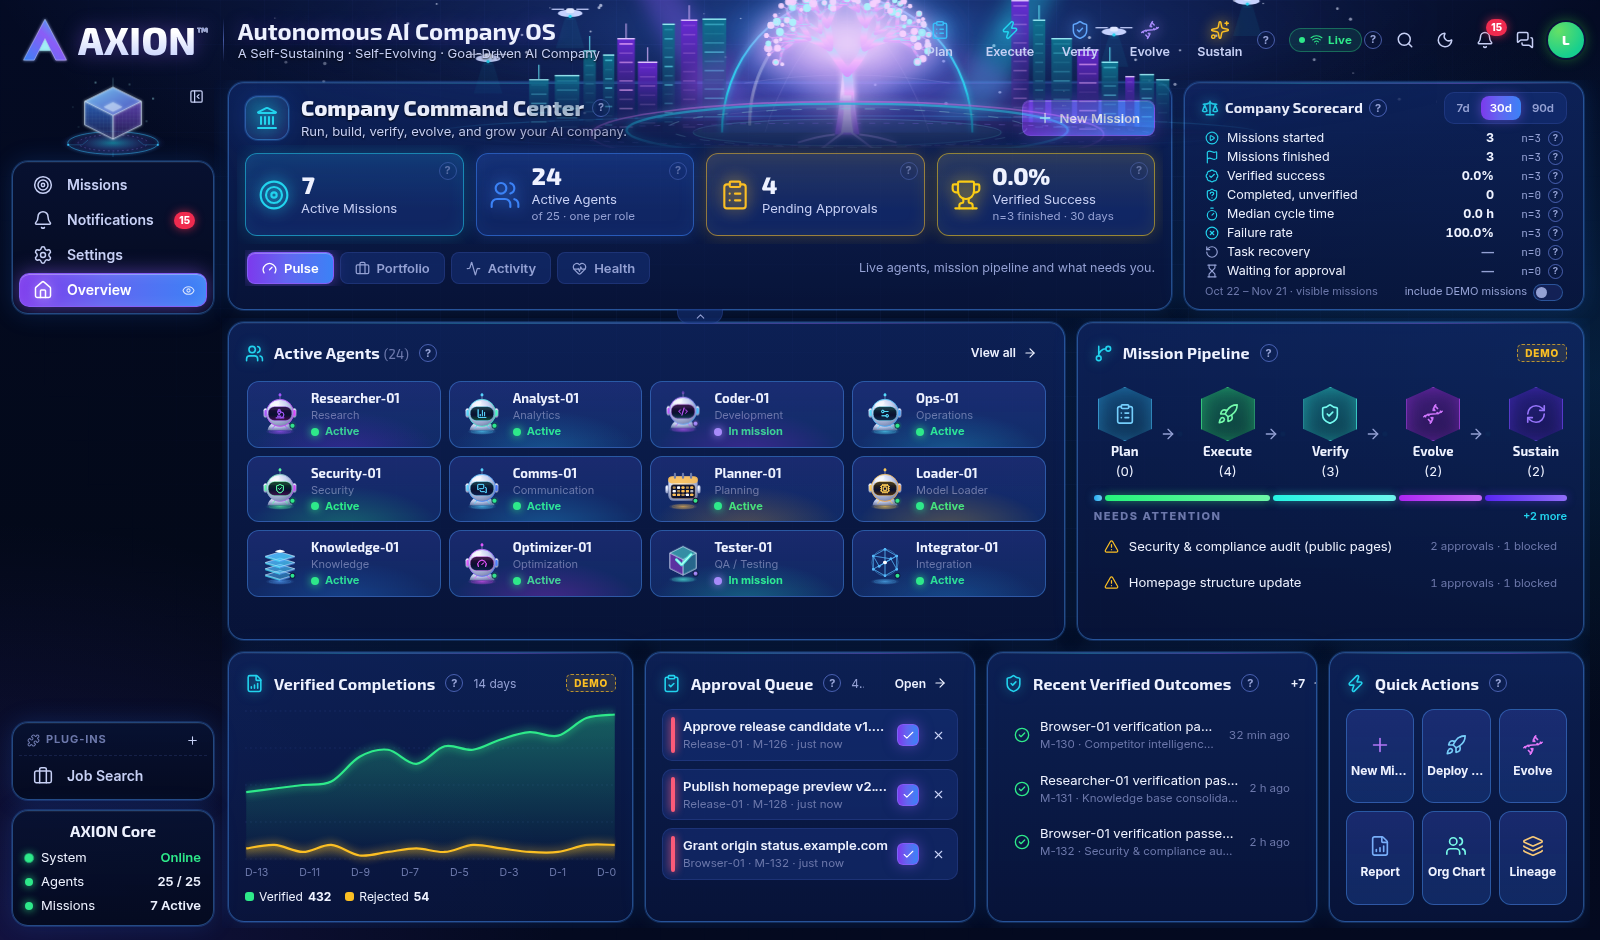
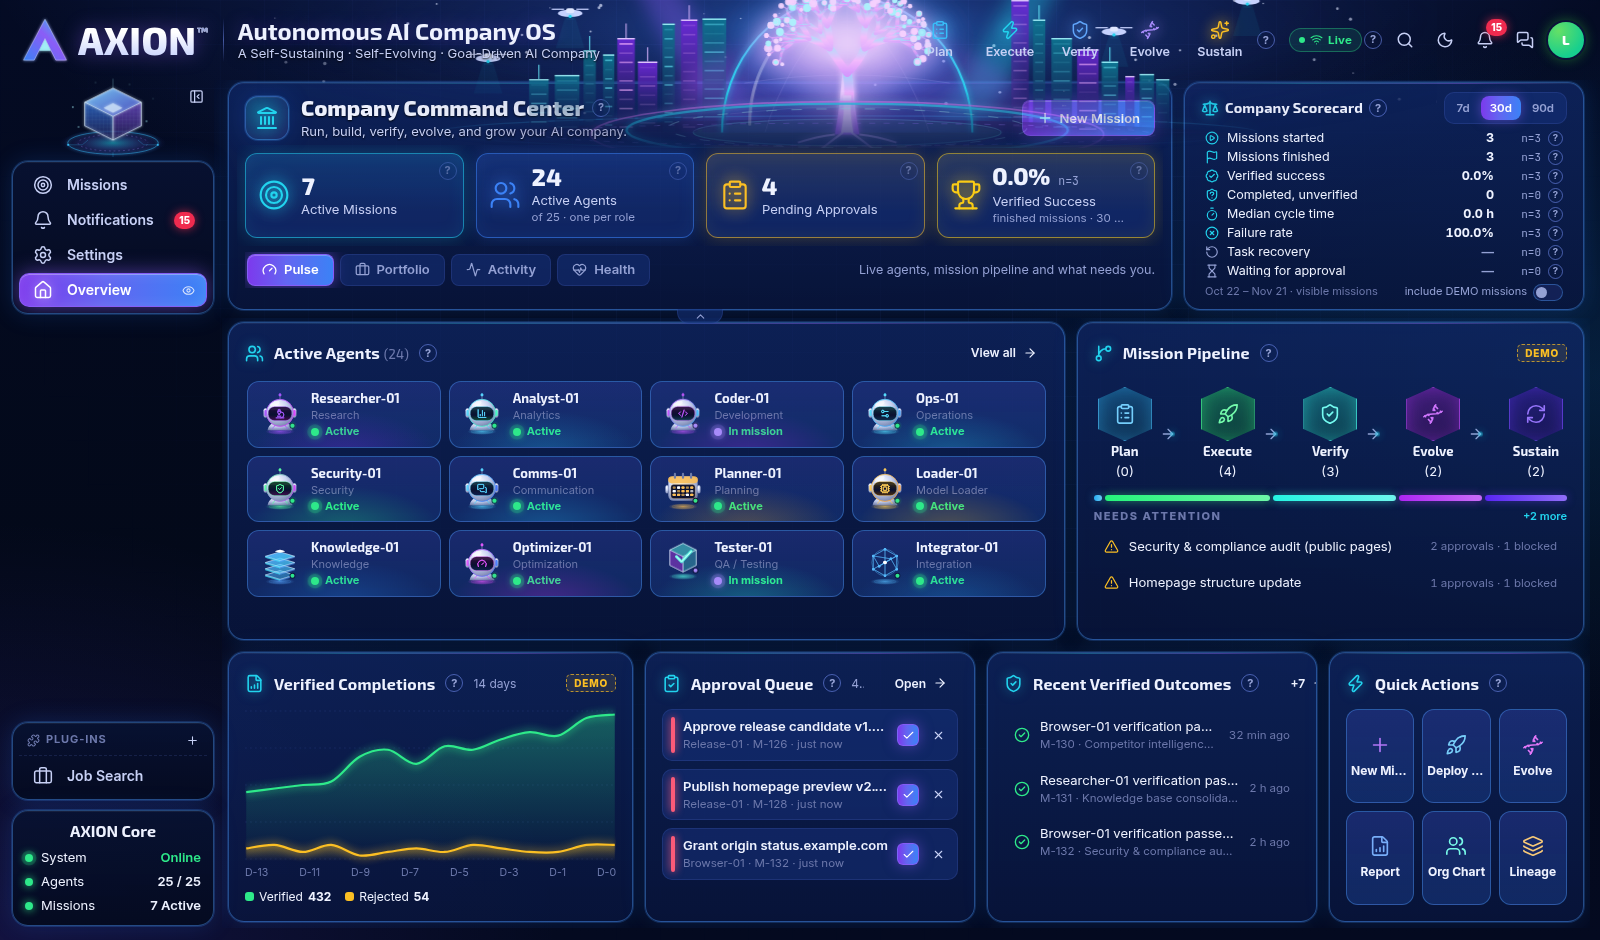
fix(c02): tile keeps its n visible on short screens (badge), 1366x650 browser check, other-tenant wait in the route test, settle before the c01 expiry step; report

diff --git a/web/src/components/layout/CommandCenter.tsx b/web/src/components/layout/CommandCenter.tsx
@@ -33,9 +33,10 @@ export function useCompanyKpis(): KpiItem[] {
     const r = rowOf(score.data, 'verified_success_rate');
     const success: KpiItem = r && r.state === 'ok' && r.value !== null
       ? { key: 'success', icon: Trophy, value: r.value, decimals: 1, suffix: '%', label: 'Verified Success', color: '#facc15', help: 'kpi.success.api', onClick: () => nav('/missions'),
-          hint: <Tip label={r.evidence}><span data-kpi-n={r.n}>n={r.n} finished · 30 days</span></Tip> }
+          badge: <Tip label={r.evidence}><span data-kpi-n={r.n}>n={r.n}</span></Tip>, hint: 'finished missions · 30 days' }
       : { key: 'success', icon: Trophy, value: 0, text: r ? 'not enough evidence' : score.error ? 'unavailable' : 'loading…', label: 'Verified Success', color: '#facc15', help: 'kpi.success.api', onClick: () => nav('/missions'),
-          hint: <Tip label={r?.evidence ?? score.error ?? 'Reading the scorecard'}><span data-kpi-n={r?.n ?? ''}>{r ? `n=${r.n} finished · 30 days` : '30 days'}</span></Tip> };
+          ...(r ? { badge: <Tip label={r.evidence}><span data-kpi-n={r.n}>n={r.n}</span></Tip> } : {}),
+          hint: <Tip label={r?.evidence ?? score.error ?? 'Reading the scorecard'}><span>{r ? 'finished missions · 30 days' : '30 days'}</span></Tip> };
     return [
       { key: 'missions', icon: Target, value: active, label: 'Active Missions', color: '#22d3ee', help: 'kpi.activeMissions', onClick: () => nav('/missions?filter=active') },
       { key: 'agents', icon: Users, value: activeAgents, label: 'Active Agents', hint: `of ${AGENTS.length} · one per role`, color: '#3b82f6', help: 'kpi.activeAgents', onClick: () => nav('/agents') },

diff --git a/web/src/components/layout/PageFrame.tsx b/web/src/components/layout/PageFrame.tsx
@@ -28,6 +28,8 @@ export interface KpiItem {
   bar?: number;
   /** any extra node (rare) */
   foot?: ReactNode;
+  /** small always-visible note beside the value (e.g. the sample size "n=3"); unlike `hint` it stays on short screens */
+  badge?: ReactNode;
   /** shown instead of the counted-up number (e.g. "not enough evidence"); `value` is then not displayed */
   text?: string;
   help?: string;
@@ -54,6 +56,7 @@ export function KpiTile({ k, i = 0 }: { k: KpiItem; i?: number }) {
           {k.text != null
             ? <span className="kpi-val kt-text">{k.text}</span>
             : <span className="kpi-val"><CountUp value={k.value} decimals={k.decimals} prefix={k.prefix} suffix={k.suffix} /></span>}
+          {k.badge != null && <span className="kt-badge">{k.badge}</span>}
           {k.delta && <span className="kpi-delta">{k.down ? <ArrowDown size={13} strokeWidth={3} /> : <ArrowUp size={13} strokeWidth={3} />}{k.delta}</span>}
         </div>
         <div className="kpi-label">{k.label}</div>

diff --git a/web/src/theme/frame.css b/web/src/theme/frame.css
@@ -62,6 +62,7 @@
 .kt-body { min-width: 0; flex: 1; text-align: left; padding-right: 12px; }
 .kt-top { display: flex; align-items: baseline; gap: 8px; min-width: 0; }
 .kt .kpi-val { font-size: 24px; white-space: nowrap; }
+.kt-badge { font-family: var(--font-mono); font-size: 11.5px; color: var(--text-muted); white-space: nowrap; }
 .kt .kpi-val.kt-text { font-size: 15px; font-weight: 700; color: var(--text-muted); white-space: normal; line-height: 1.15; }
 .kt .kpi-label { margin-top: 3px; }
 .kt-hint { font-size: 11.5px; color: var(--text-muted); white-space: nowrap; overflow: hidden; text-overflow: ellipsis; margin-top: 1px; }

diff --git a/server/test/company.test.ts b/server/test/company.test.ts
@@ -87,6 +87,7 @@ describe('scoping', () => {
     await q(`insert into tenants(id,name) values ('t-2','Other')`);
     await q(`insert into users(id,tenant_id,name,name_key,pass_hash,role,status) values ('u-x','t-2','X','x','h','admin','approved')`);
     await finished('M-207', 'u-x', 'completed', { shared: true, tenant: 't-2' });
+    await step('M-207', 'completed', 'waiting_approval', 0.9, 't-2'); await step('M-207', 'waiting_approval', 'running', 0.5, 't-2');
     // a deleted mission never counts
     await finished('M-208', minaId, 'canceled');
     await q(`update missions set deleted_at=now() where id='M-208'`);

diff --git a/web/docs/improve/cycles/c02-report.md b/web/docs/improve/cycles/c02-report.md
@@ -50,9 +50,11 @@ Implementer report for `c02-brief.md`. Branch `improve-30h`, base `b2c02ed`.
   and `mission.deleted`, and on every stream reconnect. The debounce is cancelled on sign-out and the cache is cleared.
 - **Overview, api mode** (`CommandCenter.tsx`, `Overview.tsx`):
   - **Verified Success tile.**
-    - With evidence, it shows the server's `verified_success_rate`, with `n=… finished · 30 days` under it and the
-      evidence sentence in a tooltip.
-    - Without evidence, it shows "not enough evidence" (no %) with `n=0 · 30 days`.
+    - With evidence, it shows the server's `verified_success_rate` with an `n=…` badge beside the value (evidence sentence
+      in its tooltip) and "finished missions · 30 days" under it.
+    - Without evidence, it shows "not enough evidence" (no %) with the `n=0` badge.
+    - The badge sits beside the value, not in the hint line, because short screens hide the hint (`frame.css`, max-height
+      860px). The n stays visible at 1366×650; the browser check asserts this.
     - No delta; help key `kpi.success.api`.
   - **Tokens Today tile:** removed.
   - **Active Missions tile:** the fake `+2` delta is removed.
@@ -65,8 +67,9 @@ Implementer report for `c02-brief.md`. Branch `improve-30h`, base `b2c02ed`.
       header shows a DEMO tag.
     - The footer shows the date range.
   - The demo-only Period select is hidden in api mode; it only ever showed a "(demo)" toast.
-- **`KpiTile`** (`PageFrame.tsx`): a new optional `text` replaces the counted-up number. It is not set in demo mode, so the
-  demo path renders exactly as before.
+- **`KpiTile`** (`PageFrame.tsx`): two new optional fields, `text` (replaces the counted-up number) and `badge` (a small note
+  beside the value that stays visible on short screens). Neither is set in demo mode, so the demo path renders exactly as
+  before.
 - **Missions list header, api mode:** `N open · 0.0% verified success (n=3)` (server value, 30d, DEMO excluded), with the
   evidence in a tooltip. With no evidence it shows only `N open`.
 - **Demo mode is unchanged:** the 96.4% / +2.1% / 1.84M / +2 tiles, the Company Health ring and the Missions header
@@ -152,7 +155,7 @@ Tests added:
   - an admin sees all missions of the tenant (DEMO, deleted and other-tenant missions are excluded);
   - a member never counts a private mission they can't see, including its task-recovery and approval-wait rows;
   - DEMO is counted only with `includeDemo=1`;
-  - another tenant's missions never count;
+  - another tenant's missions never count, including its shared mission's approval wait;
   - every task passed + a `verifies` delegation verifies a completion; the owner's own approval does not.
 
 ## Pass threshold
@@ -172,9 +175,14 @@ Other verification:
   - The one failure was in api-stage6 ("I2: a real mission's Reports tab says reports arrive…", an 8 s wait right after the
     simulated server restart in that script).
   - Rerunning api-stage6 alone gave 94/94. The check does not involve the scorecard (see Concerns).
-  - `api-improve.mjs` passed 49/49 on 4 of 5 runs. The one failure was in the cycle 1 part: the Approve click on the
-    expired-proposal card timed out before any c02 step. It passed on the next run, which also wrote the committed
-    screenshot.
+  - Two earlier `api-improve.mjs` runs failed on things that are fixed now. One was my own header overlap: the DEMO
+    switch sat under the window switch, which is why the switch went back to the footer. The other was a cycle 1 race,
+    seen twice.
+  - The race: after P3 is created, A's or C's re-read on `org.proposalCreated` could land after the script moved P3's
+    expiry into the past. The server then expired P3 on that read, the card left B's Pending filter, and the Approve
+    click timed out.
+  - The fix waits 1.5 s for those re-reads to finish before the expiry. No assertion changed. The final two runs passed
+    50/50 each (the c02 section now also checks 1366×650).
 - `node scripts/ov-fit.mjs` (demo mode, 5190): **NO SCROLL ANYWHERE** (8 sizes × 4 tabs).
 - `./scripts/api-e2e.sh "DATA_MODE=api node scripts/ov-fit.mjs …"` (api mode, where the new panel is): **NO SCROLL ANYWHERE**
   (8 sizes × 4 tabs).
@@ -225,8 +233,12 @@ three canceled missions, with the DEMO switch off and the window at 30d. Write i
 - **Performance.** Every `mission.stateChanged` event of the visible missions is loaded on each read. With debounced reads
   that is fine at current sizes; at scale, a `(tenant_id, type, mission_id)` index or an incremental table would be the next
   step, and that needs migration 0014.
-- **Two flaky browser checks, both outside this change.**
-  - api-stage6 I2 failed once in the combined run and passed alone (94/94).
-  - In api-improve, the cycle 1 expiry step failed once with an Approve click timeout. Probable cause: a proposals re-read
-    expires the card, and it leaves the Pending filter before the click.
-  - Both could be made more robust in a later cycle.
+- **Flaky browser checks.**
+  - api-stage6 I2 failed once in the combined run and passed alone (94/94). It is unrelated to this change and could be
+    made more robust in a later cycle.
+  - The cycle 1 expiry race in `api-improve.mjs` is mitigated with a settle wait (see above), not removed. Expiry on read
+    by any client can still race with a fixed DB update.
+- **Threshold item 2 covers the top board and the Missions header.** The rest of the api-mode Overview body still shows
+  prototype panels. Most carry a DEMO tag: Mission Pipeline, Verified Completions, Health. "Recent Verified Outcomes" (with
+  its "+N") and the Active Agents board have no tag. They are list items from mission data, not company-level rates, and
+  I left them for a later cycle rather than widen this one.
